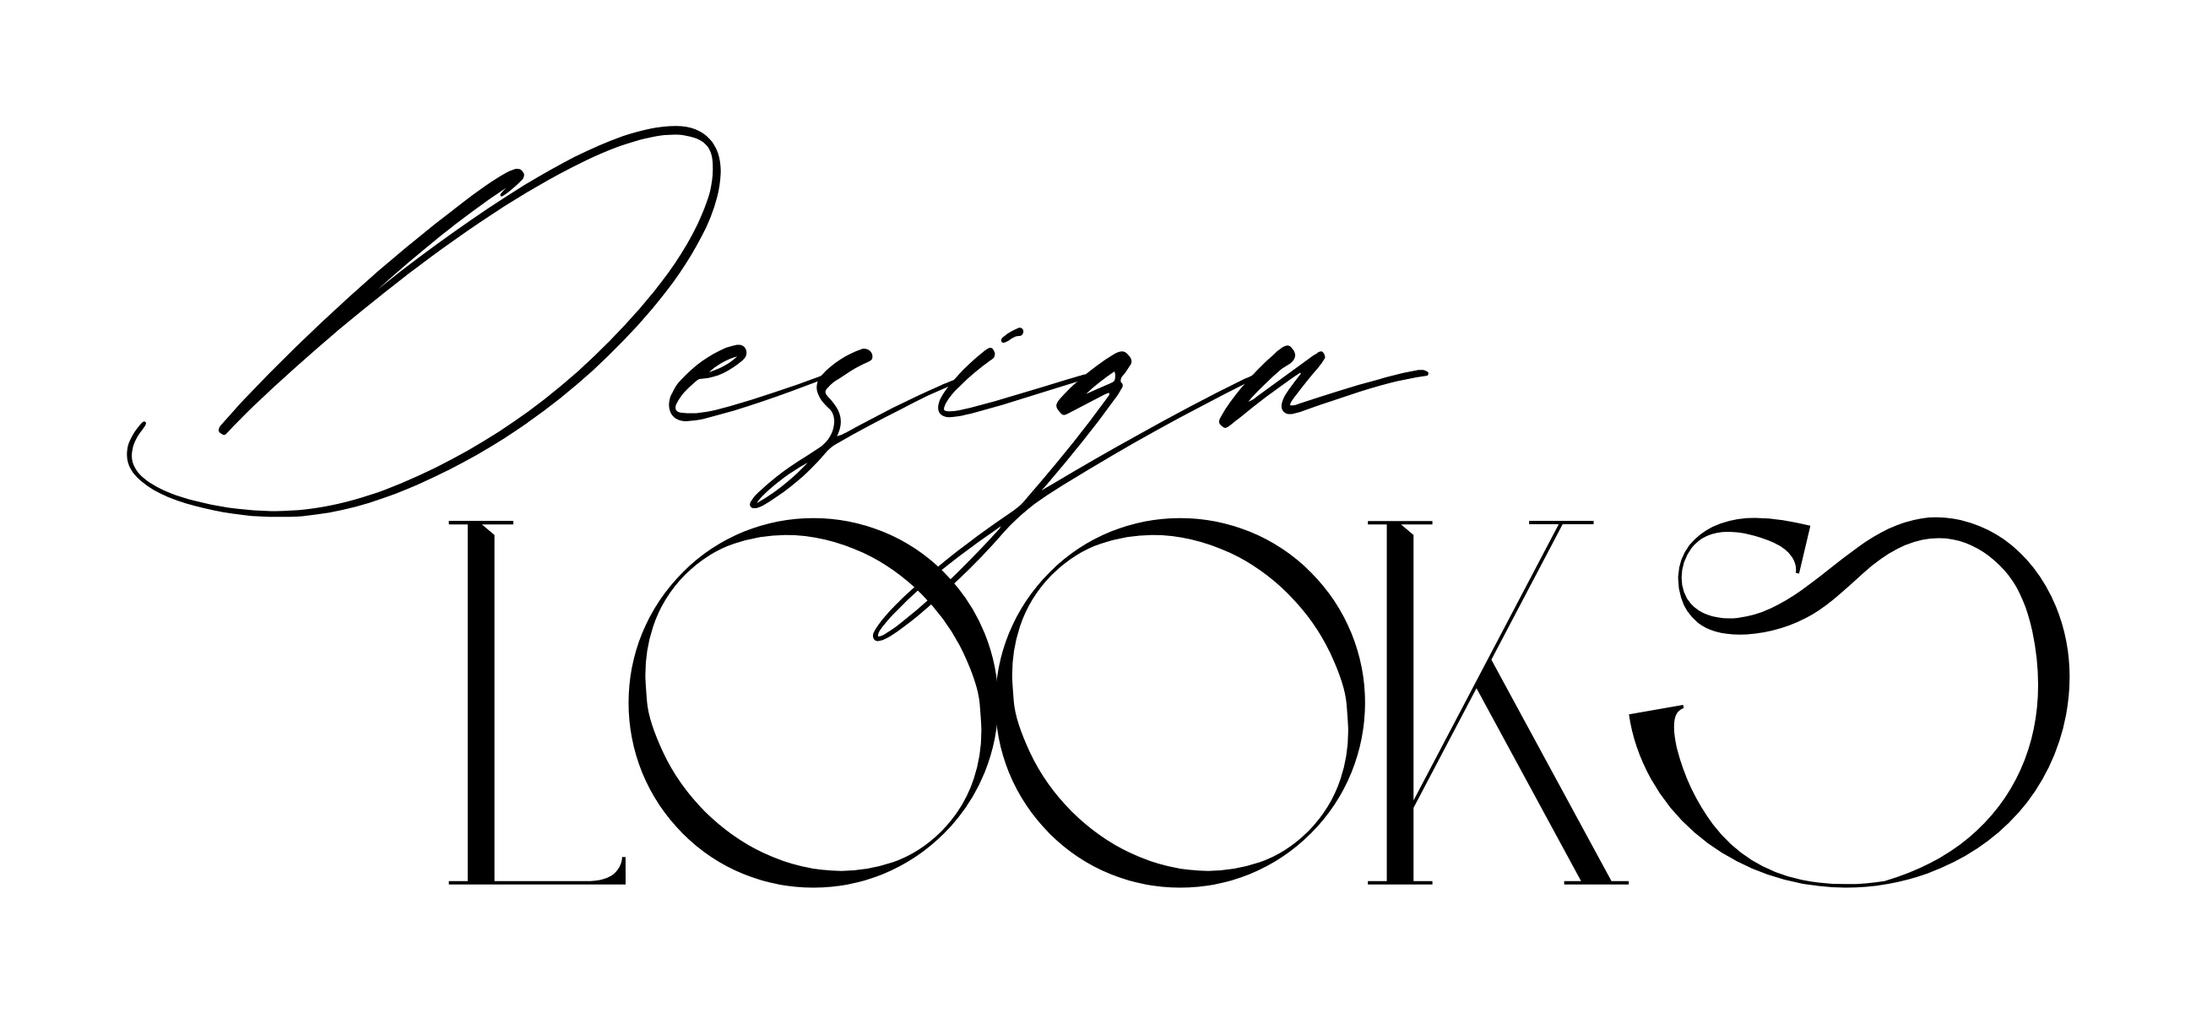
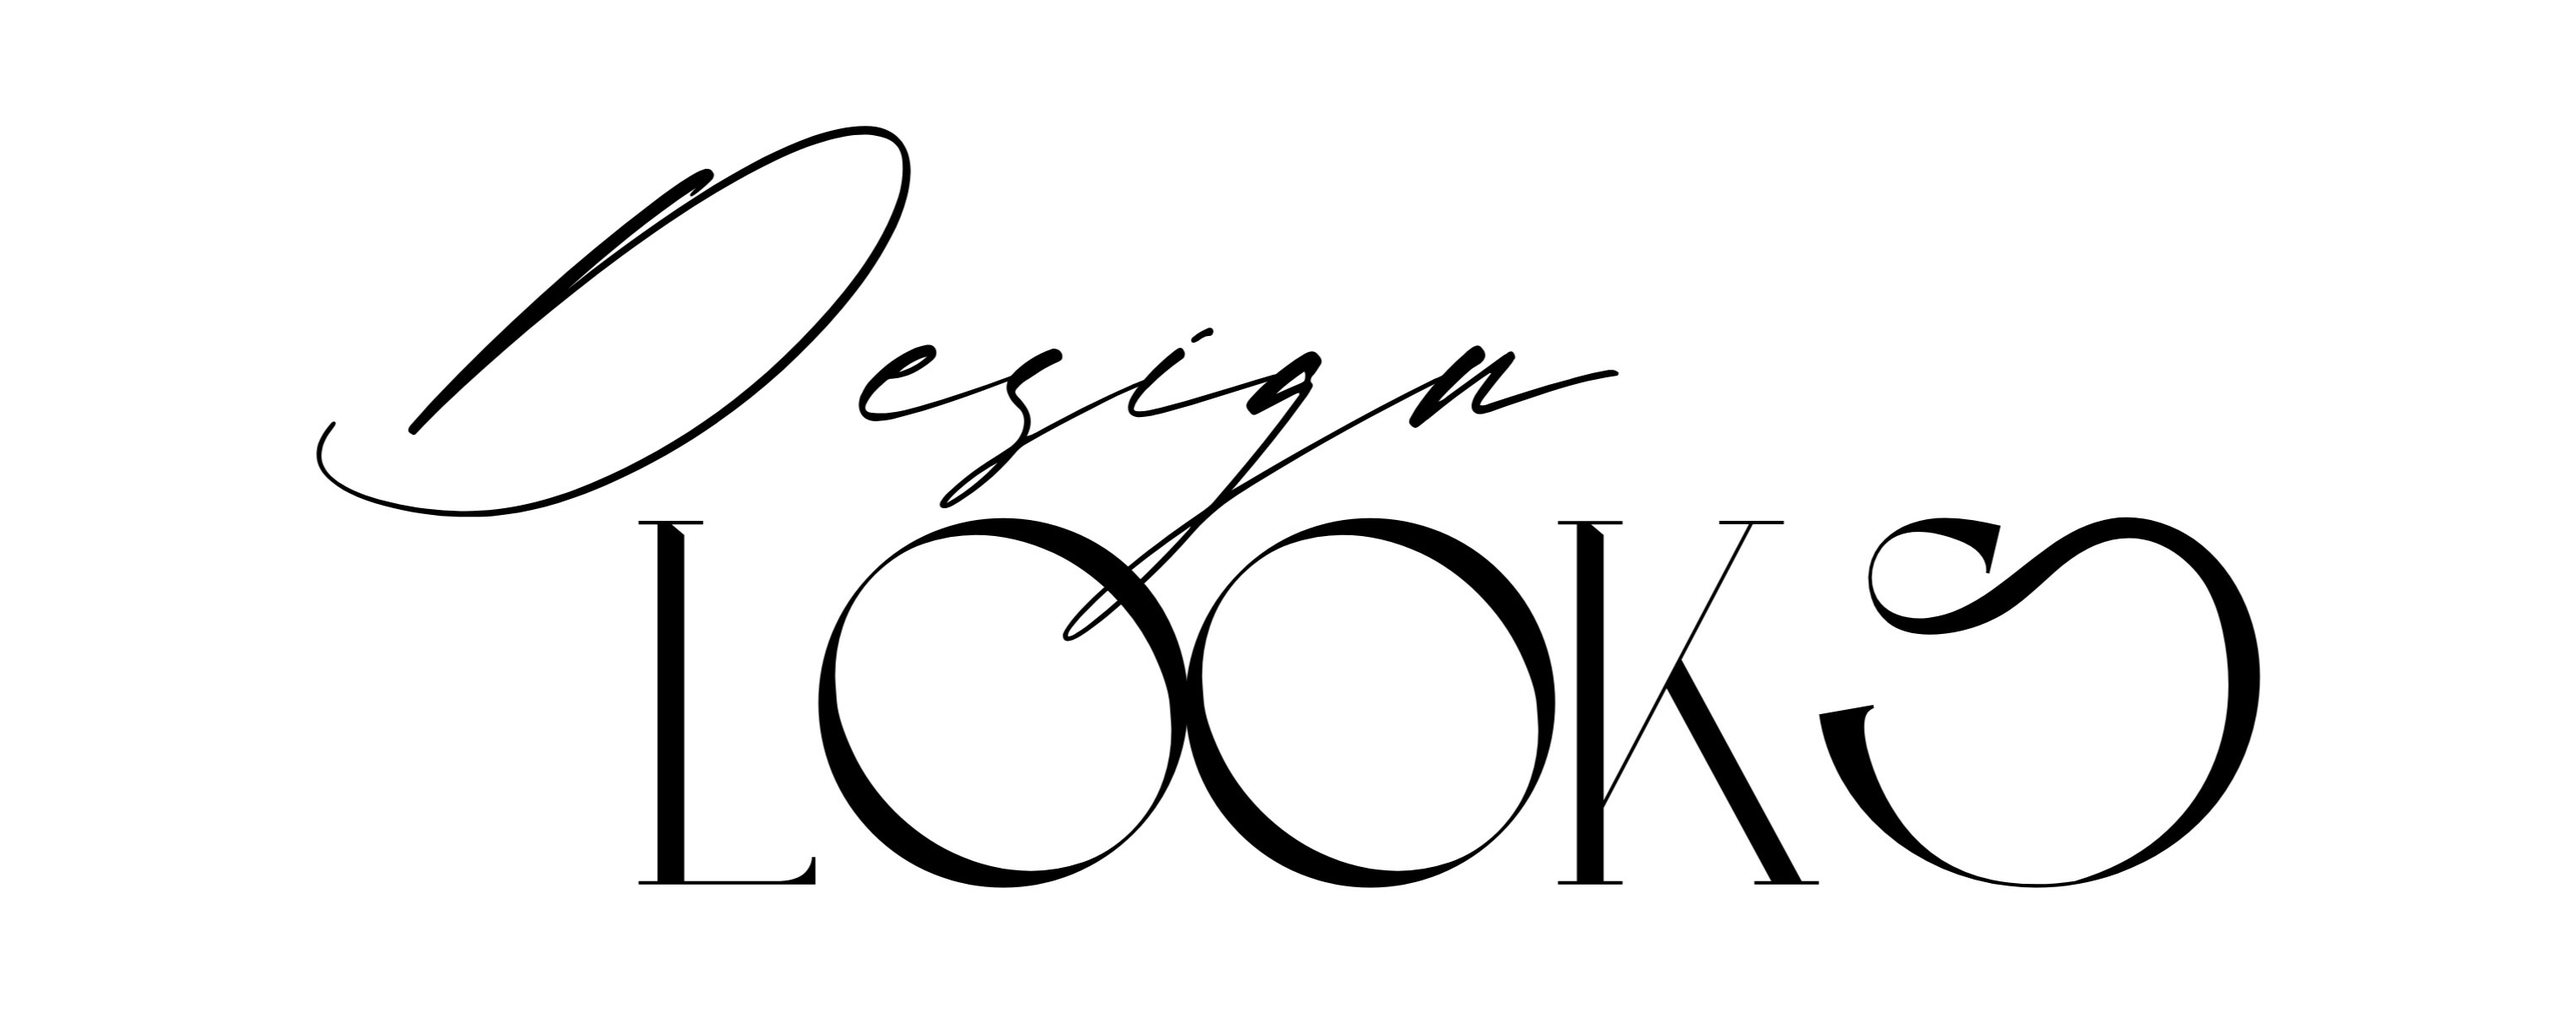
Recadre la bannière du hero (signature trop petite, vide en dessous) et uniformise la taille des 5 cartouches
La bannière avait ~30% de marge blanche baked-in au-dessus et en dessous du contenu réel, ce qui rendait la signature petite et forçait un margin-top négatif bricolé sur les boutons. Recadrée à la racine sur son propre contenu ; le margin-top des boutons repasse en positif normal.

Les 5 cartouches (Bijoux, Prints, Looks, Techniques, Moodboards) étaient chacun correctement centrés individuellement mais de largeurs différentes (un mot court occupe moins de place qu'un mot long) — une fois affichés en object-fit:contain dans des vignettes de même taille, ça donnait des échelles différentes d'une vignette à l'autre. Les 5 images sont maintenant complétées par un fond blanc jusqu'à une largeur commune, pour un rendu identique dans la grille.

diff --git a/style.css b/style.css
@@ -189,7 +189,7 @@ section{padding:0 5vw;}
    itself has generous built-in padding below "MODE / BIJOUX". The banner
    scales with viewport width, so the pull must scale with it too (a fixed
    px value overshoots on small screens and undershoots on huge ones). */
-.hero-cta{margin-top:clamp(-60px,-5.5vw,-16px);display:flex;gap:16px;flex-wrap:wrap;justify-content:center;}
+.hero-cta{margin-top:clamp(8px,1.6vw,20px);display:flex;gap:16px;flex-wrap:wrap;justify-content:center;}
 .btn{
   display:inline-flex;align-items:center;gap:9px;padding:15px 30px;border-radius:60px;
   font-family:var(--ff-sans);font-size:.78rem;letter-spacing:.1em;text-transform:uppercase;
